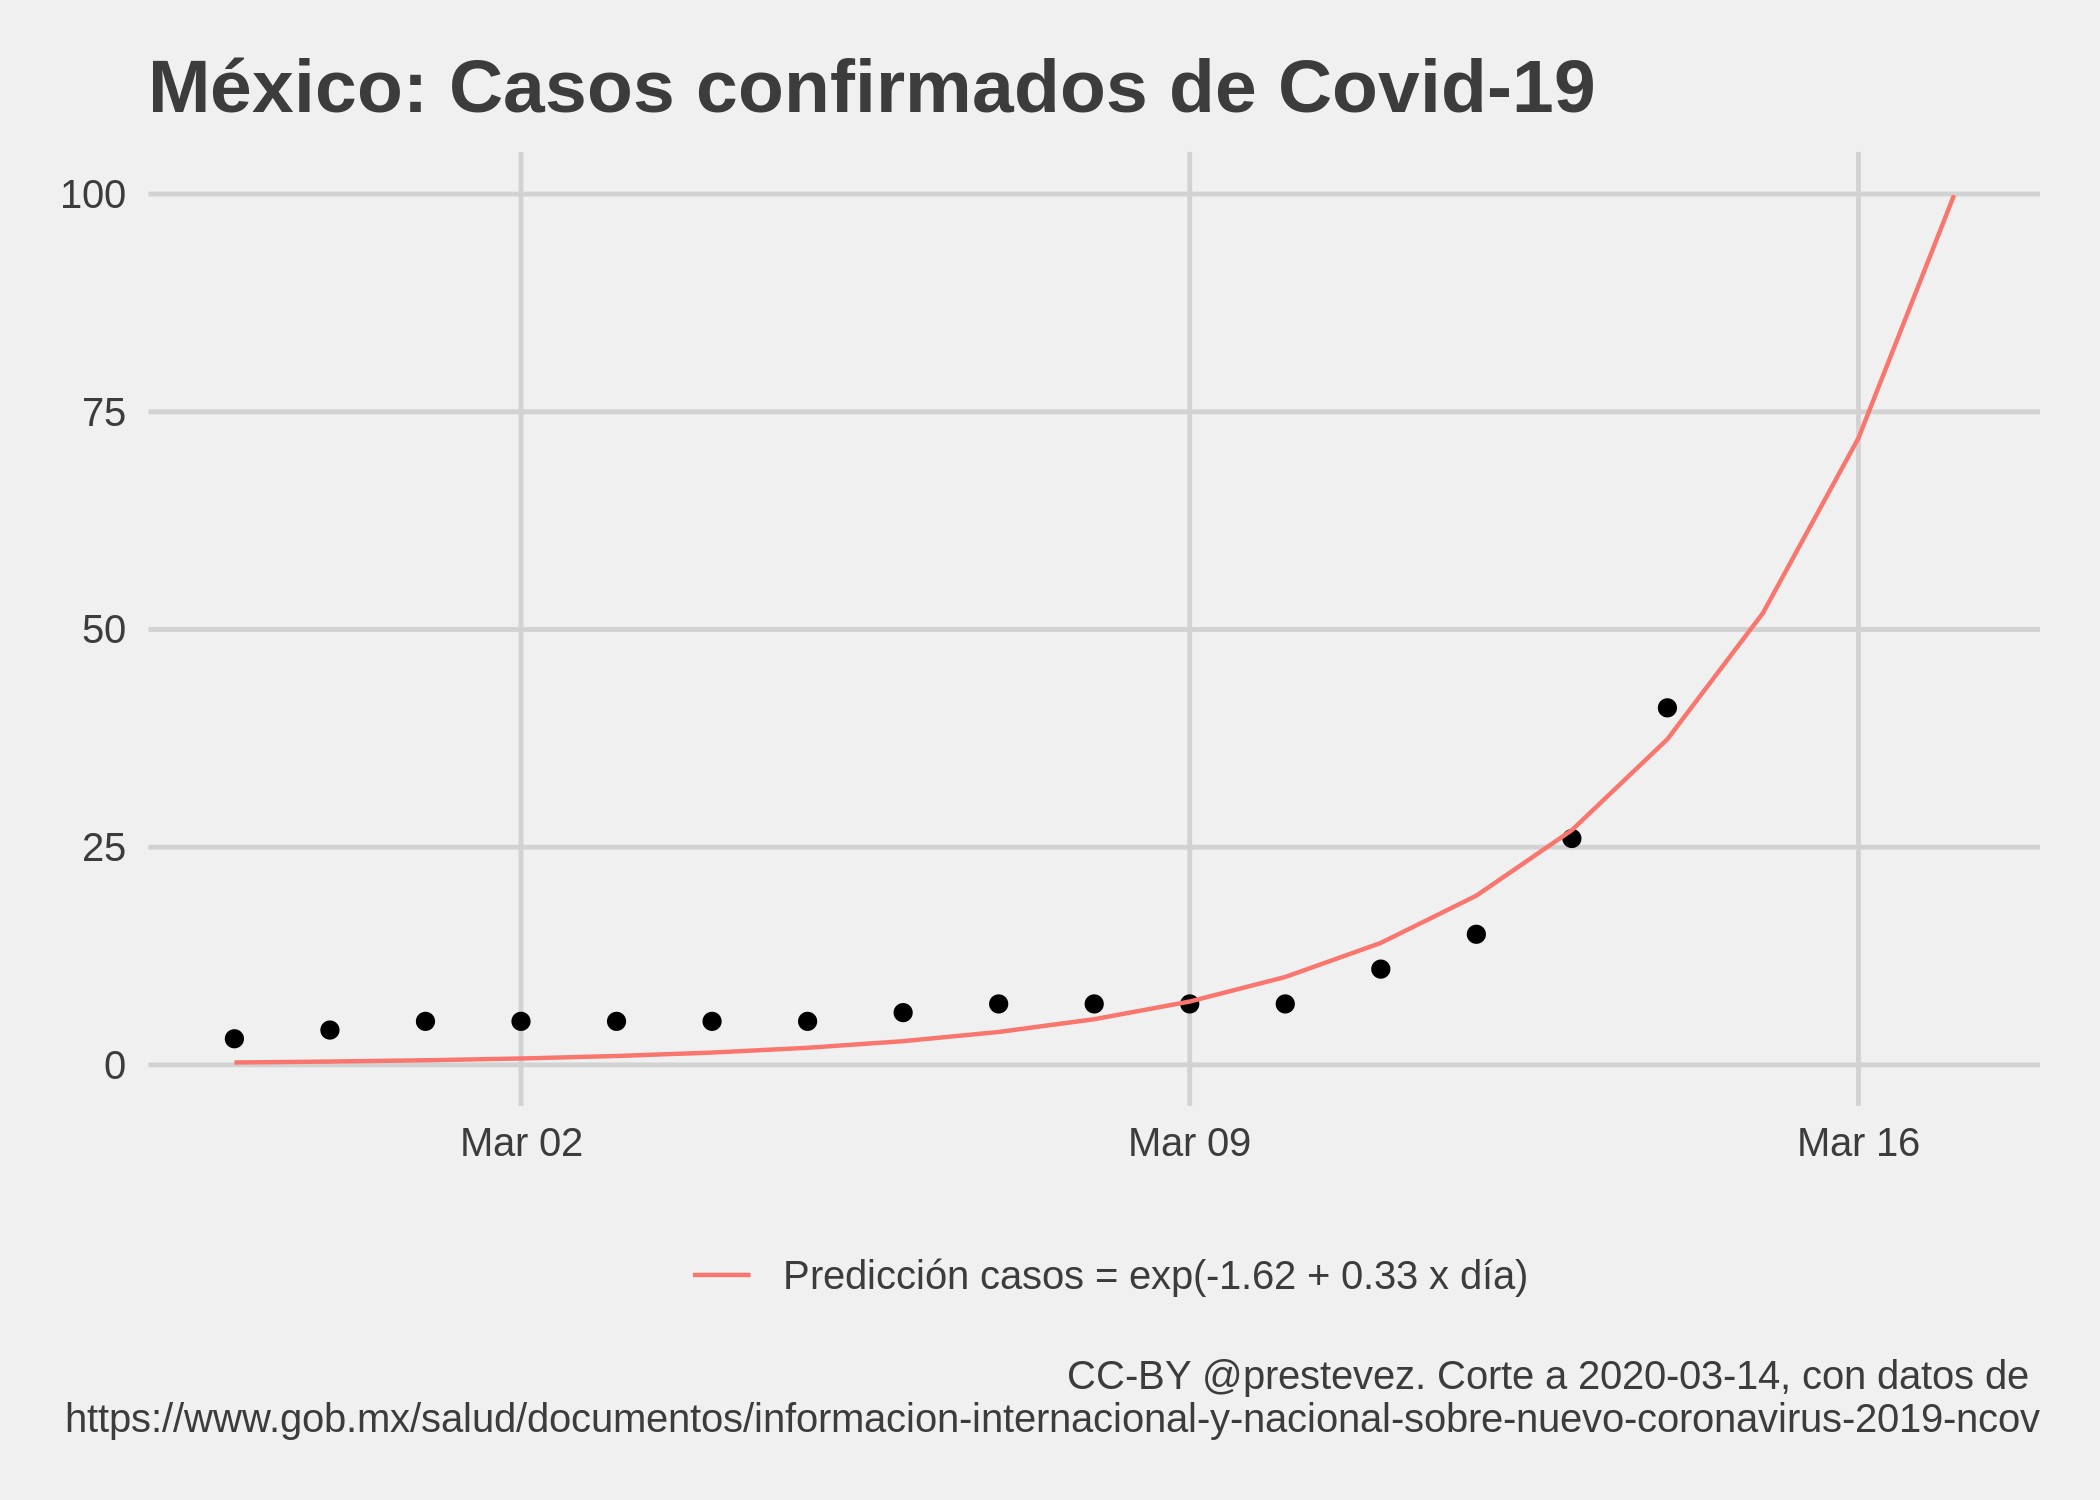
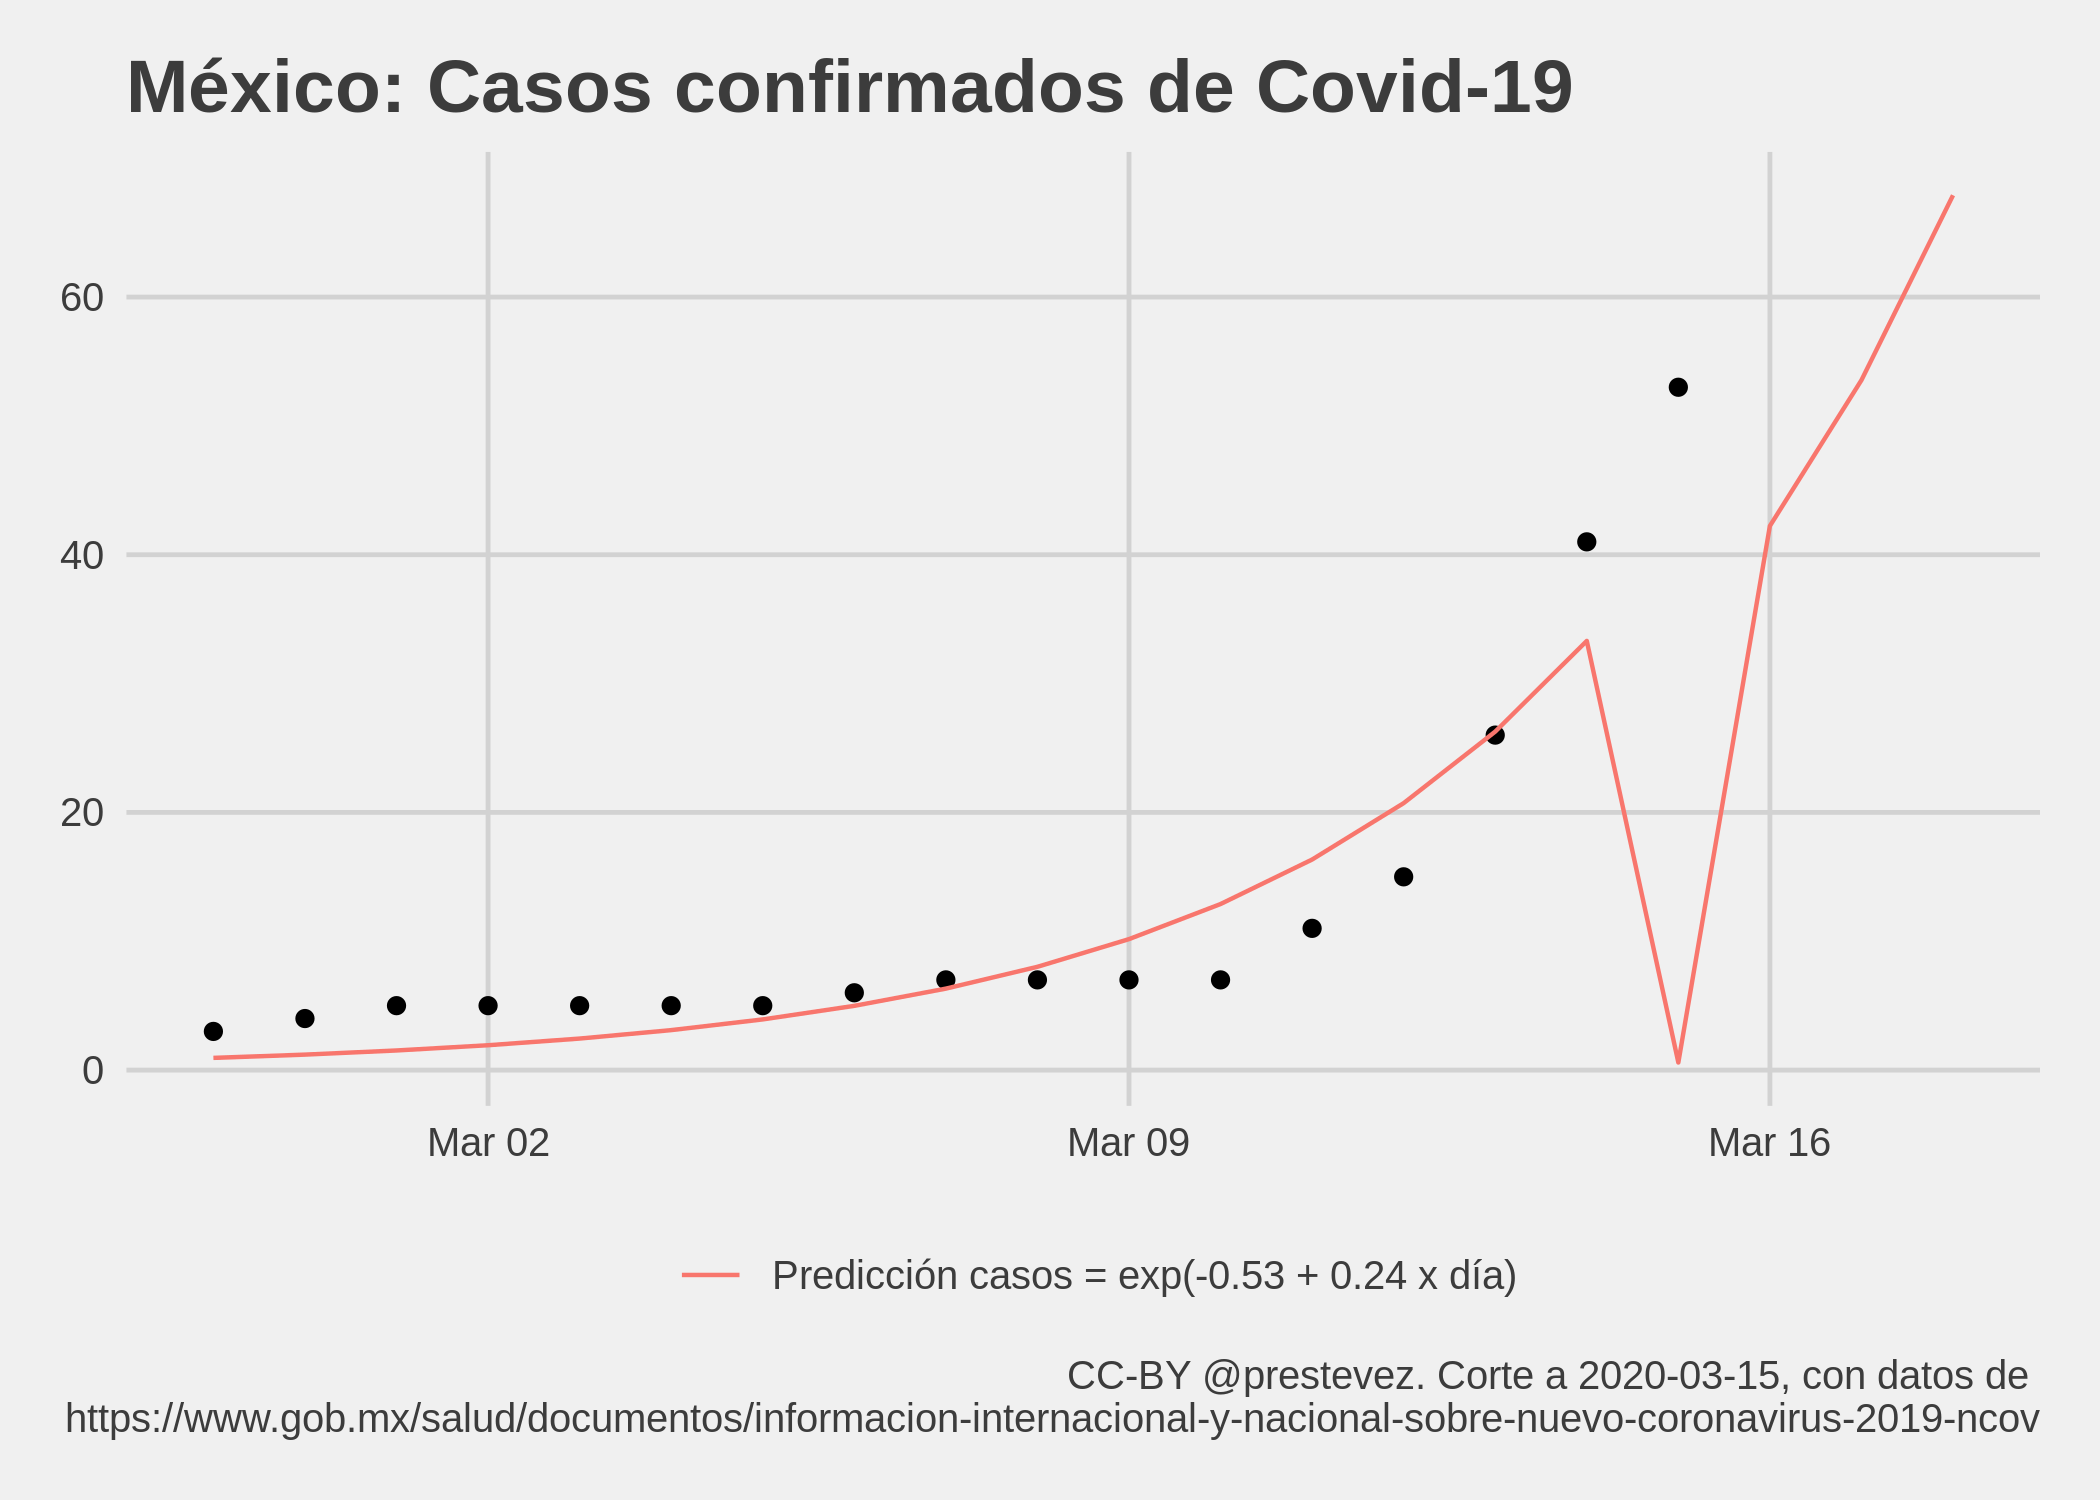
update with figures for 15-03-2020

diff --git a/README.md b/README.md
@@ -1,7 +1,7 @@
 ---
 title: "Evolución Covid-19 en México"
 author: "Patricio R Estevez-Soto"
-date: "2020-03-15"
+date: "2020-03-16"
 output: md_document
 ---
 
@@ -33,7 +33,13 @@ casos %>%
 m1 <- glm(casos ~ t, 
           data = casos,
           family = gaussian("log"))
+```
 
+```
+## Warning: glm.fit: algorithm did not converge
+```
+
+```r
 max_date <- max(casos$date) + 1
 max_t <- max(casos$t) + 1
 
@@ -98,23 +104,23 @@ summary(m1)
 ## glm(formula = casos ~ t, family = gaussian("log"), data = casos)
 ## 
 ## Deviance Residuals: 
-##     Min       1Q   Median       3Q      Max  
-## -4.4346  -0.4497   3.1262   3.6021   4.4694  
+##    Min      1Q  Median      3Q     Max  
+## -5.889  -1.017   1.067   2.800  52.411  
 ## 
 ## Coefficients:
-##             Estimate Std. Error t value Pr(>|t|)    
-## (Intercept) -1.61580    0.65191  -2.479   0.0265 *  
-## t            0.32735    0.04348   7.529 2.76e-06 ***
+##             Estimate Std. Error t value Pr(>|t|)  
+## (Intercept)  -0.5297     2.0266  -0.261   0.7974  
+## t             0.2374     0.1310   1.812   0.0901 .
 ## ---
 ## Signif. codes:  0 '***' 0.001 '**' 0.01 '*' 0.05 '.' 0.1 ' ' 1
 ## 
-## (Dispersion parameter for gaussian family taken to be 12.35506)
+## (Dispersion parameter for gaussian family taken to be 221.0455)
 ## 
-##     Null deviance: 1504.94  on 15  degrees of freedom
-## Residual deviance:  172.95  on 14  degrees of freedom
-## AIC: 89.493
+##     Null deviance: 3250.2  on 16  degrees of freedom
+## Residual deviance: 2959.4  on 15  degrees of freedom
+## AIC: 141.96
 ## 
-## Number of Fisher Scoring iterations: 14
+## Number of Fisher Scoring iterations: 25
 ```
 
 La gráfica presenta una extrapolación de la línea de tendencia indicando cuantos casos habría en tres días *asumiendo que la tendencia se mantiene*. Sin embargo, es importante notar que los datos tienen un gran sesgo de medición, pues representan solamente los casos detectados---los cuales variarán en función de la cantidad de pruebas realizadas y verificadas por la autoridad sanitaria. Por tanto, *es posible que el modelo predictivo contenga errores importantes y que los casos detectados sean menores (o mayores) a los esperados*.
